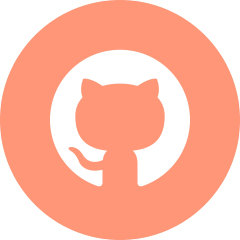
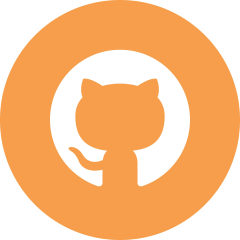
change in color coordinations

diff --git a/styles.css b/styles.css
@@ -1,5 +1,5 @@
 body {
-  background-color: #170e20;
+  background-color: #100a17;
   font-family: "Source Sans Pro", sans-serif;
   margin: 0;
   /* padding: 0; */
@@ -21,7 +21,7 @@ body {
 nav {
   display: flex;
   justify-content: space-between;
-  background-color: #1e1228;
+  background-color: #181022;
 }
 
 /* .logo-img {
@@ -128,7 +128,7 @@ li {
 } */
 
 /* #myBtn:hover {
-  background-color: #fe9677;
+  background-color: #f69e4c;
 } */
 
 h1 {
@@ -170,7 +170,7 @@ a {
 }
 
 a:hover {
-  color: #fe9677;
+  color: #f69e4c;
 }
 
 .hero-area {
@@ -206,7 +206,7 @@ a:hover {
 
 .button:hover {
   border: solid 2px #f64668;
-  color: #fe9677;
+  color: #f69e4c;
 }
 
 /* .button:active {
@@ -277,11 +277,11 @@ a:hover {
   display: flex;
   justify-content: space-around;
   flex-wrap: wrap;
-  background-color: #1e1228;
+  background-color: #181022;
   margin: 0 42px;
   padding: 42px 35px;
   outline: 2px solid #f64668;
-  border: 20px solid #170e20;
+  border: 20px solid #100a17;
   border-radius: 5px;
 }
 
@@ -366,8 +366,8 @@ a:hover {
   width: 500px;
   height: 76%;
   border-radius: 5px;
-  background-color: #1e1228;
-  box-shadow: 5px 15px 20px #1e1228;
+  background-color: #181022;
+  box-shadow: 5px 15px 20px #181022;
   margin: 25px;
   text-align: center;
 }
@@ -411,7 +411,7 @@ hr {
 }
 
 .project-link:hover {
-  color: #fe9677;
+  color: #f69e4c;
 }
 
 .project-button {
@@ -445,8 +445,8 @@ form {
   font-size: 18px;
   border-radius: 5px;
   line-height: 22px;
-  background-color: #1e1228;
-  /* border: 2px solid #fe9677; */
+  background-color: #181022;
+  /* border: 2px solid #f69e4c; */
   border: none;
   transition: all 0.3s;
   padding: 13px;
@@ -457,7 +457,7 @@ form {
 }
 
 /* .feedback-input:focus {
-  border: 2px solid #fe9677;
+  border: 2px solid #f69e4c;
 } */
 
 textarea {
@@ -470,7 +470,7 @@ textarea {
   font-family: "Noto Sans Mono", monospace;
   width: 100%;
   border: solid 2px #f64668;
-  background-color: #1e1228;
+  background-color: #181022
   border-radius: 5px;
   cursor: pointer;
   color: #e5deec;
@@ -482,7 +482,7 @@ textarea {
   font-weight: 700;
 }
 [type="submit"]:hover {
-  color: #fe9677;
+  color: #f69e4c;
 }
 
 @media only screen and (max-width: 1000px) {
@@ -496,7 +496,7 @@ textarea {
 }
 
 footer {
-  background-color: #1e1228;
+  background-color: #181022;
   color: #e5deec;
   text-align: center;
   padding: 30px;
